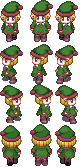
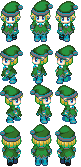
magic menu and setup for animation

diff --git a/static/eventHandlers.js b/static/eventHandlers.js
@@ -38,8 +38,8 @@ function onKeyDownParser(e) {
 		keyDownStats(e);
 	} else if (playerFocus == "playerMenu") {
 		keyDownPlayerMenu(e);
-	} else if (playerFocus == "magicMenu") {
-		
+	} else if (playerFocus == "magic") {
+		keyDownMagicMenu(e);
 	}
 }
 
@@ -187,7 +187,7 @@ function processMenuSelection(item) {
 		playerFocus = "view stats";
 		generateStatsMenu();
 	} else if (item === "Magic") {
-		playerFocus = "menuMagic";
+		playerFocus = "magic";
 	} else if (item === "Wait") {
 		currentChar.hasMoved = true;
 		playerFocus = "viewing";
@@ -238,18 +238,27 @@ function keyDownMove(e) {
 			return;
 		}
 	} else if (e === 32) { //space
+		tuple = cursor.y + "," + cursor.x;
+		console.log(tuple, "tuplee");
+		listPath.push("" + y + "," + x);
+		currentChar.movePoints = currentChar.maxMovePoints;
 		for (var i = 1; i < listPath.length; i++) {
 			 var arrayTuple = listPath[i].split(",");
 			 tile = map[(arrayTuple[0] - 0)][(arrayTuple[1] - 0)]; // the - 0 just casts it to a number
 			 terrain = terrainDict[tile.type];
 			 currentChar.movePoints -= terrain.moveCost;
 		}
+		
 		map[currentChar.y][currentChar.x].character = null;
 		currentChar.x = cursor.x;
 		currentChar.y = cursor.y;
-		map[currentChar.y][currentChar.x].character = currentChar;
-		playerFocus = "characterMenu";
+		animationFlag = true;
+		//map[currentChar.y][currentChar.x].character = currentChar;
+		movePath = listPath;
 		listPath = [];
+		playerFocus = "characterMenu";
+		generateCharacterMenu();
+		
 		//THIS IS JUST PLACEHOLDER: WE SHOULD PUT IN ANIMATIONS	
 		return;
 	} else if (e === 27) { //ESC
@@ -281,7 +290,6 @@ function keyDownMove(e) {
 		if (isValidMove(tile)) {
 			listPath.push("" + y + "," + x);
 			currentChar.movePoints -= terrainDict[tile.type].moveCost;
-			lastMove = terrainDict[tile.type].moveCost;
 		} else {
 			console.log("invalid move");
 			cursor.x = x;
@@ -361,10 +369,10 @@ function keyDownAttack(e) {
 				hit = false;
 			}
 		}		
-		
 		currentChar.hasMoved = true;
 		attacked = true;
 		playerFocus = "viewing";
+		animationFlag = true;
 		return;
 	} else if (e === 27) { //escape
 		playerFocus = "characterMenu";
@@ -440,6 +448,13 @@ function processPlayerMenuSelection() {
 		endTurn();
 	} else if (item === "Main Menu") {
 		// return to main menu some how
+	}
+}
+
+function keyDownMagicMenu(e) {
+	if (e === 27) {
+		playerFocus = "characterMenu";
+		generateCharacterMenu();
 	}
 }
 

diff --git a/static/constants.js b/static/constants.js
@@ -53,6 +53,12 @@ var playerFocus;
 * -any other menu option
 */
 
+
+/* ANIMATION */
+var movePath;
+
+/* END ANIMATION */
+
 var currentChar;
 
 /*FLAGS HERE */
@@ -102,22 +108,35 @@ var index = {"warrior":0,
 				"mage":0
 			};
 
-var warriorImageM = new Image();
-warriorImageM.src = "images/human_male.png";
-var warriorImageF = new Image();
-warriorImageF.src = "images/human_female.png";
+var delay = {"warrior":5, 
+				"archer":5,
+				"mage":5
+			};
+						
+var warriorImage1 = new Image();
+warriorImage1.src = "images/human_male.png";
 
-var archerImageM = new Image();
-archerImageM.src = "images/elf_male.png";
+var warriorImage2 = new Image();
+warriorImage2.src = "images/human_male2.png";
 
-var archerImageF = new Image();
-archerImageF.src = "images/elf_female.png";
+var warriorImage = [warriorImage1, warriorImage2];
 
-var mageImageM = new Image();
-mageImageM.src = "images/zombie_female.png";
+var archerImage1 = new Image();
+archerImage1.src = "images/elf_male.png";
 
-var mageImageF = new Image();
-mageImageF.src = "images/zombie_male.png";
+var archerImage2 = new Image();
+archerImage2.src = "images/elf_male2.png";
+
+var archerImage = [archerImage1, archerImage2];
+
+var mageImage1 = new Image();
+mageImage1.src = "images/zombie_female.png";
+
+var mageImage2 = new Image();
+mageImage2.src = "images/zombie_female2.png";
+
+var mageImage = [mageImage1, mageImage2];
+
 
 /* END CHARACTER CONSTANTS*/
 

diff --git a/static/draw.js b/static/draw.js
@@ -7,14 +7,12 @@ function draw() {
 		//draw victory banner for p1 or p2
 		return; //stop drawing the rest of the crap
 	}
-	
 	ctx.clearRect(0,0,canvas.width,canvas.height);
 	drawMap();
 	drawCharacters();
 	drawCursor();
 	drawMenu();
 }
-
 
 function drawMap() {
 	//note: Assumes canvas width & height >= tileSize*map's width & height
@@ -48,11 +46,24 @@ function drawCharacters() {
 		var character = p1charList[i];
 		if (!isDead(character)) {
 			var ci = index[character.type];
+			if (playerFocus === "characterMenu" && animationFlag){
+				//draw move
+				index[character.type] = ci++;
+				console.log("draw move", movePath);
+				animationFlag = false;
+			}
+			else if (playerFocus === "viewing" && animationFlag){
+				//draw attack
+				console.log("draw attack");
+				animationFlag = false;
+			}
+			
 			ctx.drawImage(character.img, 
 				sXList[character.type][0], sYList[character.type][0],
-				widthList[character.type][0], heightList[character.type][0],
+				widthList[character.type][0], heightList[character.type][0],	
 				character.x*tileSize, character.y*tileSize,
 				tileSize, tileSize);
+				
 		}
 		else {
 			//character is dead :(

diff --git a/static/character.js b/static/character.js
@@ -28,12 +28,13 @@ function newCharacter(data) {
 	character.type = type; //used for animation purposes, i guess?
 	character.index = data.index;
 	
+	
 	if (type === "warrior") {
-		character.img = warriorImageM;
+		character.img = warriorImage[character.player-1];
 	} else if (type === "mage") {
-		character.img = mageImageM;
+		character.img = mageImage[character.player-1];
 	} else if (type === "archer") {
-		character.img = archerImageM;
+		character.img = archerImage[character.player-1];
 	} else {
 		character.img = "";
 	}

diff --git a/static/style.css b/static/style.css
@@ -110,7 +110,7 @@ input, a {
 	background-color: 
 }
 
-#createButton {
+#createButton, #createTeamButton {
 	background-color: #F00;
 	color: #FFF;
 	right: -63%;
